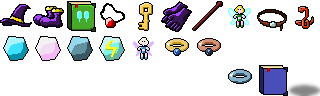
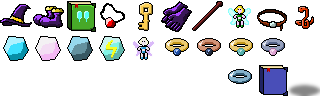
ADD Lightning and illusion rings

Changed region(s): [[0.7188, 0.375, 0.9062, 0.5938]]

diff --git a/src/Items.h b/src/Items.h
@@ -64,7 +64,9 @@ enum enumItemType
   ItemGemLightning,
   ItemFairyIce,
   ItemRingIce,
-  ItemRingStone
+  ItemRingStone,
+  ItemRingLightning,
+  ItemRingIllusion
 };
 
 const int FirstEquipItem = (int) ItemMagicianHat; /*!< Used as an offset when creating items */
@@ -92,7 +94,7 @@ struct itemStuct
   enumShotType specialShot;     /**< Special shot */
 };
 
-const int NUMBER_ITEMS = 22;  /*!< Total number of items */
+const int NUMBER_ITEMS = 24;  /*!< Total number of items */
 /** Array with all the items and data */
 const itemStuct items[NUMBER_ITEMS] =
 {
@@ -183,10 +185,18 @@ const itemStuct items[NUMBER_ITEMS] =
   {
     ItemRingStone, "Obsidian Ring", "Increases stone power",
     45, true, FamiliarNone, true, true, true, 2, RarityUnommon, AlignmentNone, ItemGemStone, ShotTypeStandard
+  },
+  {
+    ItemRingLightning, "Opal Ring", "Increases lightning power",
+    45, true, FamiliarNone, true, true, true, 2, RarityUnommon, AlignmentNone, ItemGemLightning, ShotTypeStandard
+  },
+  {
+    ItemRingIllusion, "Quartz Ring", "Increases illusion power",
+    45, true, FamiliarNone, true, true, true, 2, RarityUnommon, AlignmentNone, ItemGemIllusion, ShotTypeStandard
   }
 };
 
-const int NUMBER_EQUIP_ITEMS = 17;  /*!< Number of equip items */
+const int NUMBER_EQUIP_ITEMS = 19;  /*!< Number of equip items */
 /** Item equipment type enum
  *  All the equipments.
  */
@@ -207,7 +217,9 @@ enum item_equip_enum {
   EQUIP_GEM_LIGHTNING,
   EQUIP_FAIRY_ICE,
   EQUIP_RING_ICE,
-  EQUIP_RING_STONE
+  EQUIP_RING_STONE,
+  EQUIP_RING_LIGHTNING,
+  EQUIP_RING_ILLUSION
   };
 
 #endif

diff --git a/src/Constants.h b/src/Constants.h
@@ -152,6 +152,7 @@ const float UNLOCK_DELAY = 1.0f;
 const float INITIAL_BOLT_LIFE = 0.4f;
 const int INITIAL_BOLT_DAMAGES = 8;
 const float INITIAL_BOLT_VELOCITY = 700.0f;
+const float INITIAL_BOLT_VISCOSITY = 0.97f;
 
 const float FAIRY_SPEED = 180.0f;
 const float FAIRY_FIRE_DELAY = 0.8f;
@@ -194,6 +195,10 @@ const float STONE_DECOIL_DELAY[MAX_SHOT_LEVEL]   // how long the stun occurs
     = { 0.15f, 0.3f, 0.5f };
 const float STONE_DECOIL_VELOCITY[MAX_SHOT_LEVEL]   // Decoil power
     = { 110.0f, 160.0f, 220.0f };
+const float ILLUSION_DAMAGES_DECREASE[MAX_SHOT_LEVEL]   // Decoil power
+    = { 0.8f, 0.9f, 1.0f };
+const float LIGHTNING_VISCOSITY_INCREASE[MAX_SHOT_LEVEL]   // Decoil power
+    = { 0.012, 0.02f, 0.028f };
 
 // entity type
 const int ENTITY_PLAYER = 1;

diff --git a/src/PlayerEntity.cpp b/src/PlayerEntity.cpp
@@ -776,8 +776,14 @@ void PlayerEntity::computePlayer()
     specialShotLevel[i] = 0;
     if (specialShots[i] == ShotTypeIce && equip[EQUIP_RING_ICE])
       specialShotLevel[i]++;
+    if (specialShots[i] == ShotTypeStone && equip[EQUIP_RING_STONE])
+      specialShotLevel[i]++;
+    if (specialShots[i] == ShotTypeLightning && equip[EQUIP_RING_LIGHTNING])
+      specialShotLevel[i]++;
+    if (specialShots[i] == ShotTypeIllusion && equip[EQUIP_RING_ILLUSION])
+      specialShotLevel[i]++;
   }
-  if (getShotType() == ShotTypeIllusion) fireDamages *= 0.8f;
+  if (getShotType() == ShotTypeIllusion) fireDamages *= ILLUSION_DAMAGES_DECREASE[getShotLevel()];
 }
 
 void PlayerEntity::acquireStance(enumItemType type)

diff --git a/src/BoltEntity.cpp b/src/BoltEntity.cpp
@@ -9,9 +9,9 @@ BoltEntity::BoltEntity(sf::Texture* image, float x, float y, float boltLifeTime,
   lifetime = boltLifeTime;
   setDamages(INITIAL_BOLT_DAMAGES);
   type = ENTITY_BOLT;
-  viscosity = 0.97f;
+  viscosity = INITIAL_BOLT_VISCOSITY;
   this->level = level;
-  if (boltType == ShotTypeLightning) viscosity = 0.98f;
+  if (boltType == ShotTypeLightning) viscosity += LIGHTNING_VISCOSITY_INCREASE[level];
   frame = 0;
   this->boltType = boltType;
   switch (boltType)
